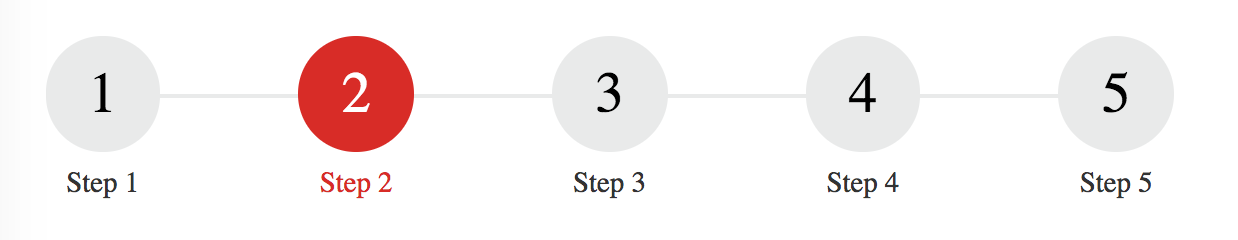
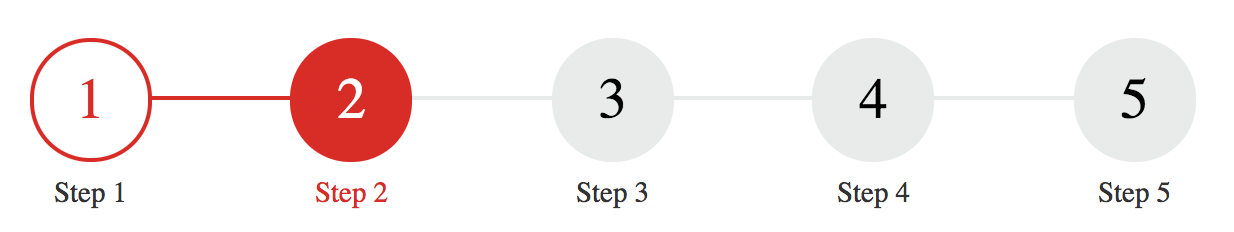
Added support for done styling

diff --git a/src/app/modules/wizard-module/circle-step/circle-step.component.scss b/src/app/modules/wizard-module/circle-step/circle-step.component.scss
@@ -17,10 +17,10 @@ $step-wizard-circle-radius: 1.8rem !default;
   position: relative;
   margin-top: $step-wizard-circle-radius/2;
   &:first-child .step-rail::before {
-    background-color: transparent;
+    background-color: transparent !important;
   }
   &:last-child .step-rail::after {
-    background-color: transparent;
+    background-color: transparent !important;
   }
 }
 
@@ -33,11 +33,25 @@ $step-wizard-circle-radius: 1.8rem !default;
   margin: 0 $step-wizard-circle-radius * 1.2;
   line-height: $step-wizard-circle-radius * 2;
   border-radius: 50%;
+  border: $step-wizard-circle-radius/15 solid $circle-color;
   &.active {
     background-color: $circle-color-active;
     color: $circle-number-color-active;
+    border-color: $circle-color-active;
     & + .step-text {
       color: $circle-color-active;
+    }
+    & ~ .step-rail::before {
+      background: $circle-color-active;
+    }
+  }
+  &.done {
+    background-color: $circle-number-color-active;
+    color: $circle-color-active;
+    border-color: $circle-color-active;
+    & ~ .step-rail::before,
+    & ~ .step-rail::after {
+      background: $circle-color-active;
     }
   }
 }

diff --git a/src/app/modules/wizard-module/circle-step/circle-step.component.html b/src/app/modules/wizard-module/circle-step/circle-step.component.html
@@ -1,6 +1,6 @@
 <div class="step-container" *ngIf="steps">
   <div *ngFor="let step of steps; let i=index" class="step-block">
-    <div class="step-indicator" [class.active]="i+1 === active">{{i+1}}</div>
+    <div class="step-indicator" [ngClass]="{'active': i+1 === active, 'done' : i+1 < active}">{{i+1}}</div>
     <div class="step-text">{{step}}</div>
     <div class="step-rail"></div>
   </div>
